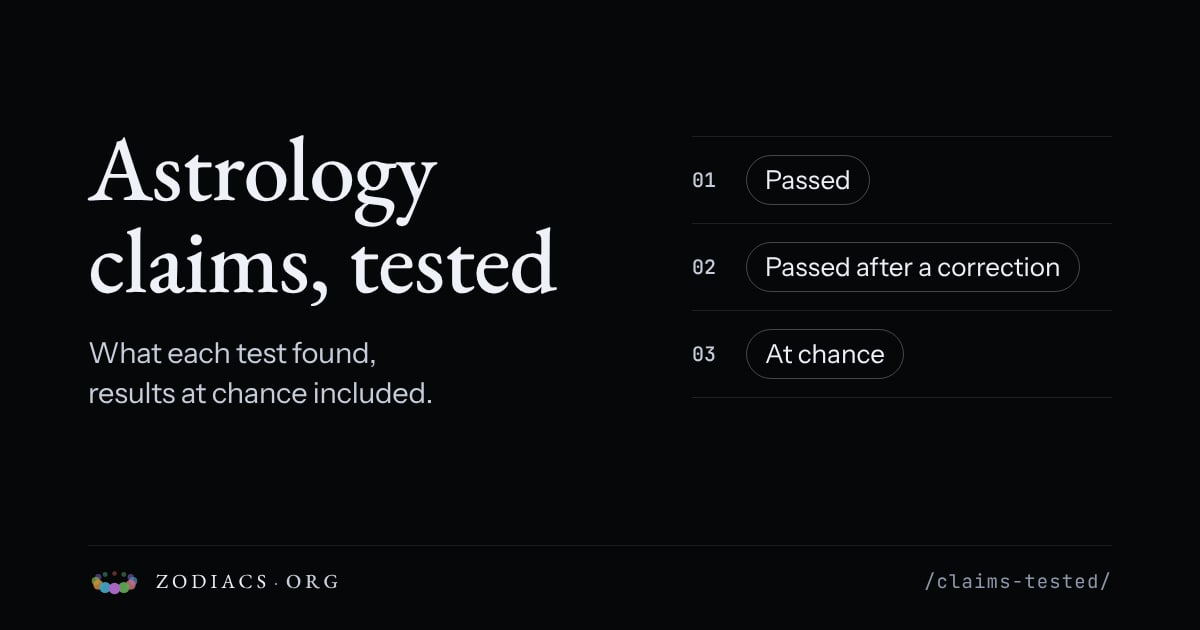
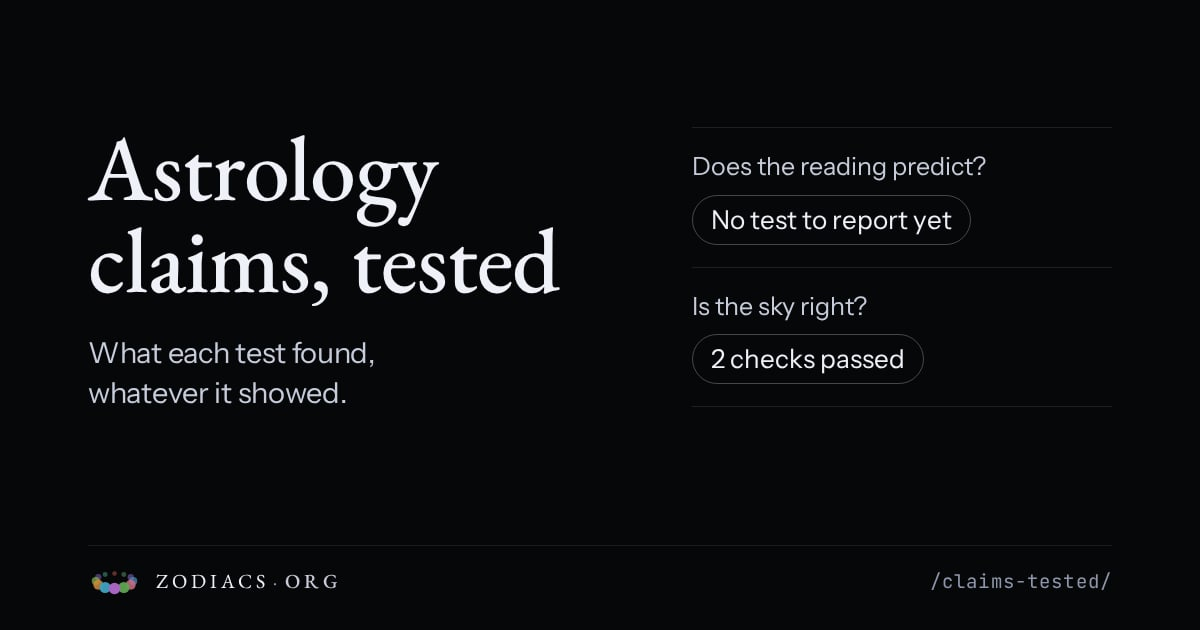
Claims tested: drop the backtest and count the two kinds apart
The Year Ahead backtest entry is removed: it was too small to report and
drew on market news, and its link carried both one click away. The
prediction section now says there is no test to report yet.

The page and its share card count prediction tests and calculation checks
separately, so two passes on arithmetic no longer read as astrology
passing. Mixed and pending verdicts have their own clause, so the tallies
always add up. Sources must be a file on main or a page on zodiacs.org,
never a pull request; the returns entry now cites its evidence on main,
and the test reads each cited file for market words and names. The
flag-off stub no longer serves the card.

diff --git a/src/lib/claims-tested.test.ts b/src/lib/claims-tested.test.ts
@@ -1,38 +1,74 @@
 import { describe, expect, it } from 'vitest';
 import { existsSync, readFileSync } from 'node:fs';
 import data from '../data/claims-tested.json';
-import { CLAIM_VERDICTS, claimsTested, claimsTestedEntries } from './claims-tested';
+import { CLAIM_VERDICTS, claimEntry, claimTally, claimsTested, claimsTestedEntries, tallyLine } from './claims-tested';
 import { OG_EN } from '../strings/seo.en.mjs';
 
 const root = new URL('../../', import.meta.url);
 const text = JSON.stringify(data);
+const MARKET_WORDS = /\b(?:market|markets|stock|stocks|token|tokens|crypto|bitcoin|binance|exchange|price|trading|invest\w*)\b/iu;
+const SURNAMES = /Saylor|Zhao|Huang|Musk|MSCI/u;
+// Exact phrases in a cited file where a listed word has its plain meaning, not a market one. Each is named here,
+// so any other use still fails. The accuracy audit report counts text tokens its output guard matched.
+const PLAIN_USES: Record<string, string[]> = {
+  'docs/accuracy-audit-2026-11/REPORT.md': ['flagged 5 tokens, which matched by coincidence: dates and digits'],
+};
 
 describe('Astrology claims, tested', () => {
-  it('holds its schema, with unique ids and both kinds', () => {
+  it('holds its schema, with unique ids, an empty prediction section and two calculation checks', () => {
     expect(claimsTested.safeParse(data).success).toBe(true);
     const { prediction, calculation } = claimsTestedEntries();
-    expect(prediction.length).toBeGreaterThan(0);
-    expect(calculation.length).toBeGreaterThan(0);
+    expect(prediction).toEqual([]);
+    expect(calculation.map((entry) => entry.id)).toEqual(['returns-worked-examples', 'nasa-event-times']);
+    expect(data.entries.map((entry) => entry.id).sort()).toEqual(['nasa-event-times', 'returns-worked-examples']);
     expect(() => claimsTestedEntries({ ...data, entries: [...data.entries, data.entries[0]] })).toThrow('duplicate id');
-  });
-
-  it('keeps results at chance on the page', () => {
-    expect(data.entries.find((entry) => entry.id === 'year-ahead-score-backtest')).toMatchObject({ verdict: 'at-chance', kind: 'prediction' });
-    expect(data.entries.find((entry) => entry.id === 'year-ahead-score-backtest')!.result).toContain('1 of 3');
     expect(Object.keys(CLAIM_VERDICTS)).toContain('failed');
   });
 
-  it('cites evidence in this repository or its pull requests, and every file it names exists', () => {
-    for (const entry of data.entries) {
-      expect(entry.source.url, entry.id).toMatch(/^https:\/\/github\.com\/zodiacs-org\/site\/(?:pull\/\d+|blob\/main\/)/u);
-      const blob = entry.source.url.match(/\/blob\/main\/(.+)$/u)?.[1];
-      if (blob) expect(existsSync(new URL(blob, root)), blob).toBe(true);
+  it('cites a file on main or a page on zodiacs.org, never a pull request', () => {
+    const entry = data.entries[0];
+    expect(claimEntry.safeParse({ ...entry, source: { ...entry.source, url: 'https://github.com/zodiacs-org/site/pull/933' } }).success).toBe(false);
+    expect(claimEntry.safeParse({ ...entry, source: { ...entry.source, url: 'https://zodiacs.org/claims-tested/' } }).success).toBe(true);
+    for (const item of data.entries) {
+      expect(item.source.url, item.id).toMatch(/^https:\/\/(?:github\.com\/zodiacs-org\/site\/blob\/main\/|zodiacs\.org\/)/u);
     }
   });
 
+  it('every file on main it cites exists here and carries no market words or living person\'s name', () => {
+    for (const entry of data.entries) {
+      const blob = entry.source.url.match(/\/blob\/main\/(.+)$/u)?.[1];
+      if (!blob) continue;
+      const file = new URL(blob, root);
+      expect(existsSync(file), blob).toBe(true);
+      let body = readFileSync(file, 'utf8');
+      for (const phrase of PLAIN_USES[blob] ?? []) {
+        expect(body, `${blob}: ${phrase}`).toContain(phrase);
+        body = body.replace(phrase, '');
+      }
+      expect(body, blob).not.toMatch(MARKET_WORDS);
+      expect(body, blob).not.toMatch(SURNAMES);
+    }
+  });
+
+  it('keeps every verdict in exactly one tally, so the tallies add up', () => {
+    const mixed = { ...data.entries[0], id: 'a-mixed-prediction', kind: 'prediction', verdict: 'mixed' };
+    const { prediction, calculation } = claimsTestedEntries({ ...data, entries: [...data.entries, mixed] });
+    for (const entries of [prediction, calculation]) {
+      const tally = claimTally(entries);
+      expect(tally.held + tally.not + tally.other).toBe(entries.length);
+    }
+    expect(claimTally(prediction)).toEqual({ n: 1, held: 0, not: 0, other: 1 });
+    expect(tallyLine('prediction', claimTally(prediction))).toBe('Prediction tests: 1. Held up: 0. Mixed or still running: 1.');
+    expect(tallyLine('prediction', claimTally([]))).toBe('Prediction tests: none yet. Held up: 0.');
+    expect(tallyLine('calculation', claimTally(calculation))).toBe('Calculation checks: 2. Held up: 2.');
+    const all = Object.keys(CLAIM_VERDICTS).map((verdict, index) => ({ ...data.entries[0], id: `v${index}`, verdict }));
+    const tally = claimTally(claimsTested.parse({ ...data, entries: all }).entries);
+    expect(tally).toEqual({ n: 6, held: 2, not: 2, other: 2 });
+  });
+
   it('carries no market, token or crypto language and no living person\'s name, and no dashes', () => {
-    expect(text).not.toMatch(/\b(?:market|markets|stock|stocks|token|tokens|crypto|bitcoin|binance|exchange|price|trading|invest\w*)\b/iu);
-    expect(text).not.toMatch(/Saylor|Zhao|Huang|Musk|MSCI/u);
+    expect(text).not.toMatch(MARKET_WORDS);
+    expect(text).not.toMatch(SURNAMES);
     expect(text).not.toMatch(/[–—]/u);
   });
 
@@ -43,11 +79,23 @@ describe('Astrology claims, tested', () => {
     expect(readFileSync(new URL('src/pages/sitemap.xml.ts', root), 'utf8')).not.toContain('/claims-tested/');
   });
 
-  it('has its own share card, in plain words', () => {
+  it('has its own share card, with the two kinds counted apart and matching the data', () => {
     const card = OG_EN.claimsTested;
+    const { prediction, calculation } = claimsTestedEntries();
     expect(card.image).toBe('/assets/og/claims-tested/v1/card.jpg');
-    expect(card.rows).toEqual(['Passed', 'Passed after a correction', 'At chance'].map((row) => row));
-    for (const row of card.rows) expect(Object.values(CLAIM_VERDICTS)).toContain(row);
-    for (const words of [card.title, card.line, card.alt]) expect(words).not.toMatch(/[–—]|token|market|crypto/iu);
+    expect(card.rows).toHaveLength(2);
+    const [predicts, sky] = card.rows;
+    expect(predicts).toContain('predict');
+    // The card says there is no prediction test only while the data has none.
+    expect(prediction).toHaveLength(0);
+    expect(predicts).toBe('Does the reading predict? No test to report yet');
+    expect(sky).toBe(`Is the sky right? ${claimTally(calculation).held} checks passed`);
+    expect(claimTally(calculation).held).toBe(calculation.length);
+    expect(sky).toContain(String(calculation.length));
+    for (const row of card.rows) {
+      expect(row).not.toMatch(/At chance/iu);
+      expect(row).not.toContain('3');
+    }
+    for (const words of [card.title, card.line, card.alt, ...card.rows]) expect(words).not.toMatch(/[–—]|token|market|crypto|at chance/iu);
   });
 });

diff --git a/src/lib/claims-tested.ts b/src/lib/claims-tested.ts
@@ -9,7 +9,8 @@
  * anything) and "calculation" (is the sky we compute right).
  *
  * An entry is added only for a test whose result is already in this
- * repository or one of its pull requests, with that evidence as its source.
+ * repository, with that evidence as its source: a file on main or a page on
+ * zodiacs.org, never a pull request.
  * The astro-markets lab's results stay out until the owner releases them.
  */
 import { z } from 'zod';
@@ -27,7 +28,8 @@ export const CLAIM_VERDICTS = {
 export type ClaimVerdict = keyof typeof CLAIM_VERDICTS;
 
 const DATE = /^\d{4}-\d{2}-\d{2}$/u;
-const SOURCE = /^https:\/\/(?:github\.com\/zodiacs-org\/site\/(?:pull\/\d+|blob\/main\/[\w./-]+)|zodiacs\.org\/[\w/-]*)$/u;
+// A file on main or a page on zodiacs.org, never a pull request: a pull request can change or close.
+const SOURCE = /^https:\/\/(?:github\.com\/zodiacs-org\/site\/blob\/main\/[\w./-]+|zodiacs\.org\/[\w/-]*)$/u;
 
 export const claimEntry = z.strictObject({
   id: z.string().regex(/^[a-z0-9-]+$/u),
@@ -64,6 +66,37 @@ export function claimsTestedEntries(input: unknown = data): { updated: string; p
     prediction: parsed.entries.filter((entry) => entry.kind === 'prediction').sort(order),
     calculation: parsed.entries.filter((entry) => entry.kind === 'calculation').sort(order),
   };
+}
+
+export type ClaimTally = { n: number; held: number; not: number; other: number };
+
+/**
+ * One kind's tally for the page: held up (passed, passed after a correction),
+ * at chance or did not hold (at-chance, failed), and mixed or still running
+ * (mixed, pending). The three always add up to n.
+ */
+export function claimTally(entries: readonly ClaimEntry[]): ClaimTally {
+  const tally: ClaimTally = { n: entries.length, held: 0, not: 0, other: 0 };
+  for (const { verdict } of entries) {
+    if (verdict === 'passed' || verdict === 'passed-after-correction') tally.held += 1;
+    else if (verdict === 'at-chance' || verdict === 'failed') tally.not += 1;
+    else tally.other += 1;
+  }
+  return tally;
+}
+
+/**
+ * The page's summary line for one kind, e.g. "Calculation checks: 2. Held up: 2."
+ * A clause whose count is 0 is left out, except "Held up"; a kind with no
+ * entries reads "none yet".
+ */
+export function tallyLine(kind: (typeof CLAIM_KINDS)[number], tally: ClaimTally): string {
+  const label = kind === 'prediction' ? 'Prediction tests' : 'Calculation checks';
+  const not = kind === 'prediction' ? 'At chance or did not hold' : 'Did not hold';
+  const clauses = [`${label}: ${tally.n === 0 ? 'none yet' : tally.n}.`, `Held up: ${tally.held}.`];
+  if (tally.not) clauses.push(`${not}: ${tally.not}.`);
+  if (tally.other) clauses.push(`Mixed or still running: ${tally.other}.`);
+  return clauses.join(' ');
 }
 
 /** The page is off unless PUBLIC_CLAIMS_TESTED_ENABLED is exactly '1'; it stays noindex until the owner approves publishing. */

diff --git a/src/styles/claims-tested.css b/src/styles/claims-tested.css
@@ -2,14 +2,11 @@
    claims, Instrument Sans body, JetBrains Mono for counts. The verdict is a
    plain word, not a coloured dot. Mobile first. */
 .claims-page .tool-hero { margin-bottom: clamp(24px, 4vw, 36px); }
-.claims-summary { display: grid; grid-template-columns: repeat(2, minmax(0, 1fr)); gap: 12px; margin: 0; }
-@media (min-width: 720px) { .claims-summary { grid-template-columns: repeat(4, minmax(0, 1fr)); } }
-.claims-summary div { padding: 14px 16px; border: 1px solid var(--hair-1); border-radius: var(--r-md, 12px); background: var(--void-1); }
-.claims-summary dt { color: var(--ink-2); font-size: var(--text-sm, 14px); }
-.claims-summary dd { margin: 6px 0 0; color: var(--ink-0); font: 500 22px/1.2 var(--font-mono); }
-.claims-summary dd.claims-summary__date { font-size: 18px; }
+.claims-summary { display: grid; gap: 8px; margin: 0; padding: 14px 16px; list-style: none; border: 1px solid var(--hair-1); border-radius: var(--r-md, 12px); background: var(--void-1); }
+.claims-summary li { color: var(--ink-0); font: 400 15px/1.45 var(--font-mono); }
 .claims-rule { margin: 18px 0 0; color: var(--ink-1); max-width: 62ch; }
 .claims-lede { margin: 0 0 18px; color: var(--ink-1); max-width: 62ch; }
+.claims-empty { margin: 0; padding: clamp(18px, 4vw, 28px); border: 1px solid var(--hair-1); border-radius: var(--r-md, 12px); color: var(--ink-1); max-width: 62ch; }
 .claims-list { display: grid; gap: 16px; margin: 0; padding: 0; list-style: none; }
 .claims-entry { padding: clamp(18px, 4vw, 28px); scroll-margin-top: 96px; }
 .claims-entry__verdict {

diff --git a/docs/claims-tested/README.md b/docs/claims-tested/README.md
@@ -18,29 +18,32 @@ results at chance included. Built 9 November 2026; not published.
 
 ## Adding an entry
 
-Add a test only when its result is already in this repository or one of its
-pull requests, and cite that evidence as `source.url` (a pull request or a
-file on `main`). Give the result in the test's own numbers first. Use the
+Add a test only when its result is already in this repository, and cite that
+evidence as `source.url`: a file on `main` or a page on zodiacs.org, never a
+pull request. Give the result in the test's own numbers first. Use the
 verdict the numbers support: `passed`, `passed-after-correction`, `mixed`,
 `at-chance`, `failed` or `pending`. A result at chance or a failure stays on
 the page. Keep the astro-markets lab's results out until the owner releases
 them, and name no living person.
 
-## Decisions (9 November 2026)
+Good day finder outcome answers are never a source unless a preregistered design with a comparison group exists.
+
+## Decisions (9 and 10 November 2026)
 
 - Two kinds of entry, "Does the reading predict?" and "Is the sky right?":
   a pass on arithmetic must never read as evidence that astrology predicts.
-- The prediction section comes first: those are the claims the page exists
-  to test, and its at-chance result should not sit below the passes.
+- The prediction section comes first, even when it is empty: those are the
+  claims the page exists to test.
 - Verdicts are plain words in a hairline pill, not coloured dots: the design
   system has no status colours, and the words carry the result.
-- Seeded with three results: the Year Ahead Score backtest (draft PR #933,
-  at chance), the returns worked examples (PR #921, passed, preregistered)
-  and the NASA accuracy audit (passed after a correction). These are the only
-  tests with recorded results in the repository and its pull requests.
-- The backtest entry names no one and no market event: the people are living
-  and the events are market and crypto news, which consumer pages do not
-  carry. The entry links its report instead.
+- Seeded with two results: the returns worked examples (passed,
+  preregistered) and the NASA accuracy audit (passed after a correction).
+  Both are calculation checks, so the page shows two tallies, one per kind,
+  and the prediction section says there is no test to report yet.
+- The Year Ahead trial is not listed (decided 10 November 2026): it was too
+  small to report as a result, and it drew on market news.
+- A source must be a file on `main` or a page on zodiacs.org, never a pull
+  request: a pull request can change or close.
 - The Registry thesis and research material is left out as astro-markets
   work, until the owner releases it.
 - Sources link to GitHub, which is public, so every reader can check the
